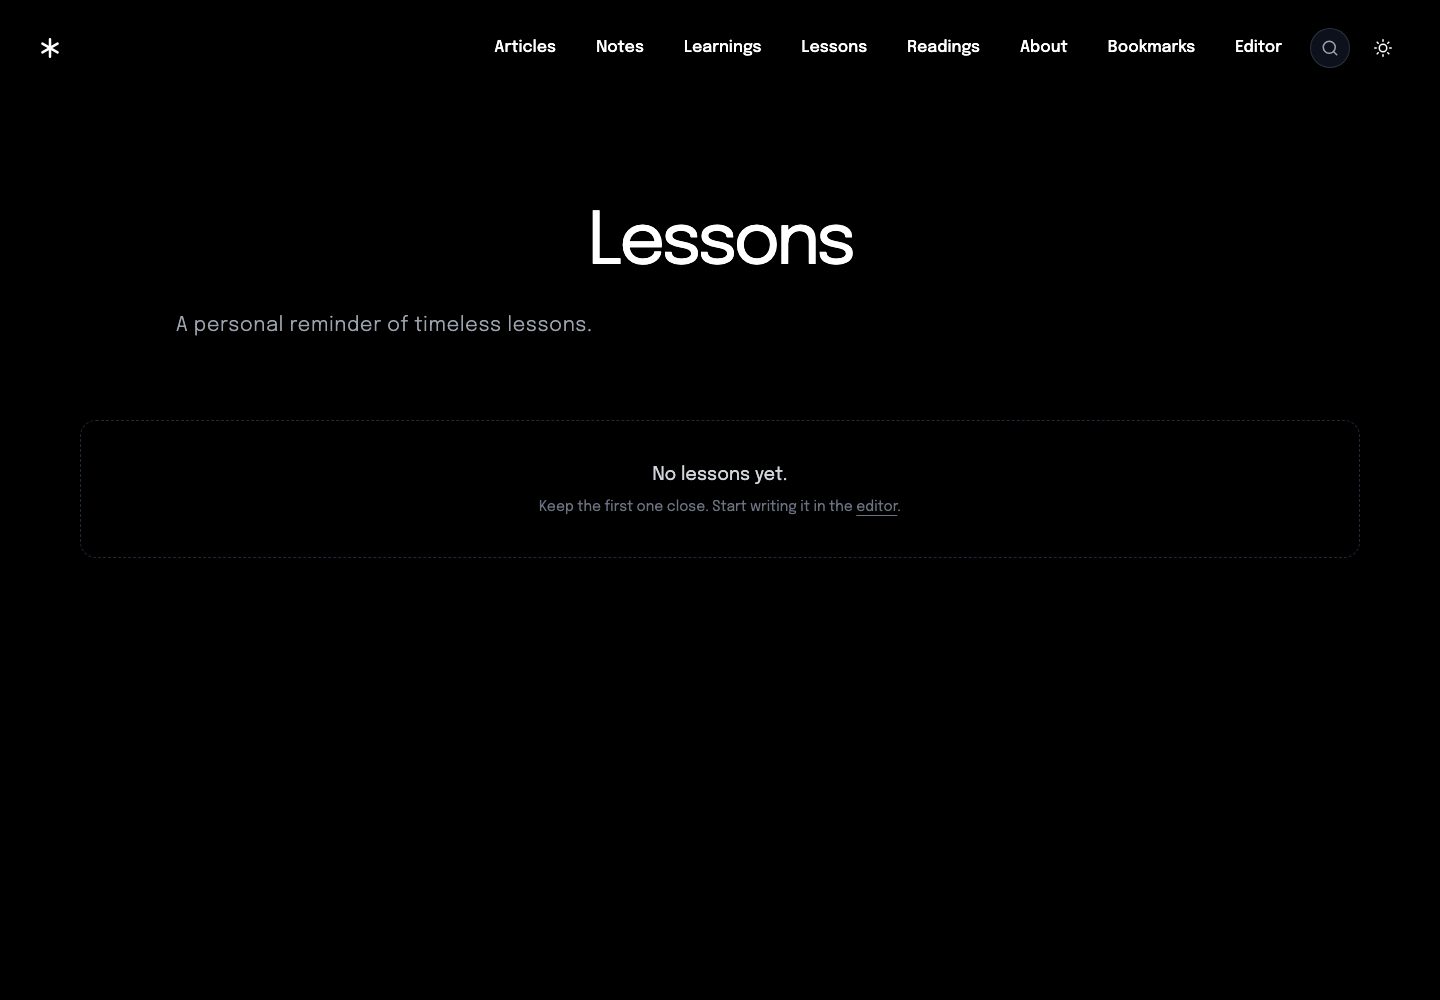
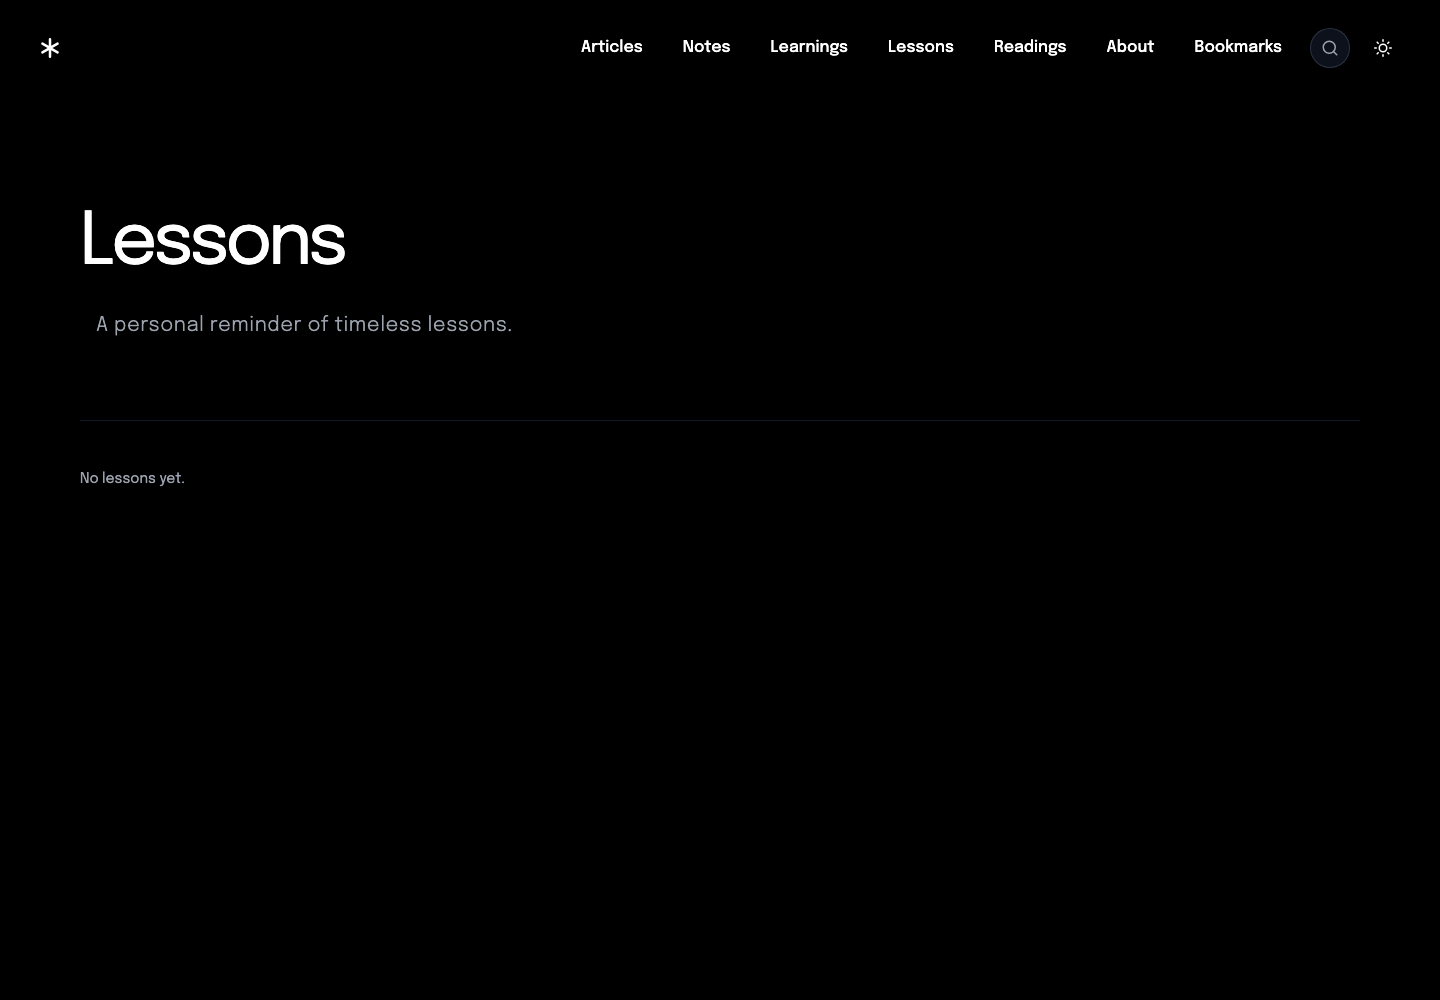
style: align private editor navigation

diff --git a/src/app/lessons/page.tsx b/src/app/lessons/page.tsx
@@ -1,4 +1,3 @@
-import Link from 'next/link';
 import { readFile } from 'fs/promises';
 import { join } from 'path';
 import ReactMarkdown from 'react-markdown';
@@ -54,7 +53,7 @@ export default async function LessonsPage() {
       <Navbar />
       <div className="flex flex-col items-center pt-32">
         <SectionContainer>
-          <div className="w-full py-20">
+          <div className="w-full py-20 text-left">
             <AnimatedTitle>
               <h1 className="mb-8 text-5xl leading-relaxed tracking-[-0.06em] sm:text-7xl">Lessons</h1>
             </AnimatedTitle>
@@ -63,35 +62,38 @@ export default async function LessonsPage() {
             </p>
 
             {content.length > 0 ? (
-              <div className="space-y-10">
+              <div className="space-y-1">
                 {content.map(({ lesson, body }) => (
-                  <article key={lesson.id} className="border-l-2 border-gray-200 pl-5 dark:border-gray-800 sm:pl-7">
-                    <div className="mb-3 flex flex-wrap items-center gap-3 text-[11px] font-mono uppercase tracking-[0.18em] text-gray-500">
-                      <time dateTime={lesson.date}>{formatDate(lesson.date)}</time>
-                      {lesson.source ? <span>· {lesson.source}</span> : null}
-                    </div>
-                    <h2 className="mb-3 text-2xl font-medium tracking-tight text-gray-950 dark:text-gray-100">
-                      {lesson.title}
-                    </h2>
-                    <p className="mb-5 max-w-2xl leading-relaxed text-gray-600 dark:text-gray-400">{lesson.excerpt}</p>
-                    {body ? (
-                      <div className="prose prose-sm max-w-2xl dark:prose-invert">
-                        <ReactMarkdown remarkPlugins={[remarkGfm]}>{body}</ReactMarkdown>
+                  <article key={lesson.id} className="group border-b border-gray-200 py-6 dark:border-gray-900">
+                    <div className="flex flex-col gap-3 sm:flex-row sm:items-start sm:gap-8">
+                      <div className="min-w-[140px] pt-1 text-sm font-mono text-gray-500 dark:text-gray-500">
+                        <time dateTime={lesson.date}>{formatDate(lesson.date)}</time>
                       </div>
-                    ) : null}
+                      <div className="min-w-0 flex-1">
+                        {lesson.source ? (
+                          <p className="mb-2 text-[10px] uppercase tracking-[0.18em] text-gray-400 dark:text-gray-600">
+                            {lesson.source}
+                          </p>
+                        ) : null}
+                        <h2 className="mb-2 text-xl font-medium tracking-tight text-gray-900 transition-colors group-hover:text-gray-600 dark:text-gray-100 dark:group-hover:text-gray-300 sm:text-2xl">
+                          {lesson.title}
+                        </h2>
+                        <p className="mb-4 max-w-2xl text-sm leading-relaxed text-gray-600 dark:text-gray-400 sm:text-base">
+                          {lesson.excerpt}
+                        </p>
+                        {body ? (
+                          <div className="prose prose-sm max-w-2xl dark:prose-invert">
+                            <ReactMarkdown remarkPlugins={[remarkGfm]}>{body}</ReactMarkdown>
+                          </div>
+                        ) : null}
+                      </div>
+                    </div>
                   </article>
                 ))}
               </div>
             ) : (
-              <div className="rounded-2xl border border-dashed border-gray-300 px-6 py-10 text-center dark:border-gray-800">
-                <p className="text-lg text-gray-700 dark:text-gray-300">No lessons yet.</p>
-                <p className="mt-2 text-sm text-gray-500 dark:text-gray-500">
-                  Keep the first one close. Start writing it in the{' '}
-                  <Link href="/editor" className="underline underline-offset-4 transition-colors hover:text-gray-950 dark:hover:text-white">
-                    editor
-                  </Link>
-                  .
-                </p>
+              <div className="border-t border-gray-200 py-12 dark:border-gray-900">
+                <p className="text-sm text-gray-600 dark:text-gray-400">No lessons yet.</p>
               </div>
             )}
           </div>

diff --git a/src/app/readings/page.tsx b/src/app/readings/page.tsx
@@ -1,4 +1,3 @@
-import Link from 'next/link';
 import { readFile } from 'fs/promises';
 import { join } from 'path';
 import ReactMarkdown from 'react-markdown';
@@ -54,7 +53,7 @@ export default async function ReadingsPage() {
       <Navbar />
       <div className="flex flex-col items-center pt-32">
         <SectionContainer>
-          <div className="w-full py-20">
+          <div className="w-full py-20 text-left">
             <AnimatedTitle>
               <h1 className="mb-8 text-5xl leading-relaxed tracking-[-0.06em] sm:text-7xl">Readings</h1>
             </AnimatedTitle>
@@ -63,35 +62,36 @@ export default async function ReadingsPage() {
             </p>
 
             {content.length > 0 ? (
-              <div className="space-y-10">
+              <div className="space-y-1">
                 {content.map(({ reading, body }) => (
-                  <article key={reading.id} className="border-y border-gray-200 py-7 dark:border-gray-800">
-                    <div className="mb-4 flex flex-wrap items-center gap-3 text-[11px] font-mono uppercase tracking-[0.18em] text-gray-500">
-                      <time dateTime={reading.date}>{formatDate(reading.date)}</time>
-                      <span>· {reading.author}</span>
-                    </div>
-                    <h2 className="mb-3 text-2xl font-medium tracking-tight text-gray-950 dark:text-gray-100">
-                      {reading.title}
-                    </h2>
-                    <p className="mb-5 max-w-2xl leading-relaxed text-gray-600 dark:text-gray-400">{reading.excerpt}</p>
-                    {body ? (
-                      <div className="prose prose-sm max-w-2xl dark:prose-invert">
-                        <ReactMarkdown remarkPlugins={[remarkGfm]}>{body}</ReactMarkdown>
+                  <article key={reading.id} className="group border-b border-gray-200 py-6 dark:border-gray-900">
+                    <div className="flex flex-col gap-3 sm:flex-row sm:items-start sm:gap-8">
+                      <div className="min-w-[140px] pt-1 text-sm font-mono text-gray-500 dark:text-gray-500">
+                        <time dateTime={reading.date}>{formatDate(reading.date)}</time>
                       </div>
-                    ) : null}
+                      <div className="min-w-0 flex-1">
+                        <p className="mb-2 text-[10px] uppercase tracking-[0.18em] text-gray-400 dark:text-gray-600">
+                          {reading.author}
+                        </p>
+                        <h2 className="mb-2 text-xl font-medium tracking-tight text-gray-900 transition-colors group-hover:text-gray-600 dark:text-gray-100 dark:group-hover:text-gray-300 sm:text-2xl">
+                          {reading.title}
+                        </h2>
+                        <p className="mb-4 max-w-2xl text-sm leading-relaxed text-gray-600 dark:text-gray-400 sm:text-base">
+                          {reading.excerpt}
+                        </p>
+                        {body ? (
+                          <div className="prose prose-sm max-w-2xl dark:prose-invert">
+                            <ReactMarkdown remarkPlugins={[remarkGfm]}>{body}</ReactMarkdown>
+                          </div>
+                        ) : null}
+                      </div>
+                    </div>
                   </article>
                 ))}
               </div>
             ) : (
-              <div className="rounded-2xl border border-dashed border-gray-300 px-6 py-10 text-center dark:border-gray-800">
-                <p className="text-lg text-gray-700 dark:text-gray-300">No readings yet.</p>
-                <p className="mt-2 text-sm text-gray-500 dark:text-gray-500">
-                  Add the first one from the{' '}
-                  <Link href="/editor" className="underline underline-offset-4 transition-colors hover:text-gray-950 dark:hover:text-white">
-                    editor
-                  </Link>
-                  .
-                </p>
+              <div className="border-t border-gray-200 py-12 dark:border-gray-900">
+                <p className="text-sm text-gray-600 dark:text-gray-400">No readings yet.</p>
               </div>
             )}
           </div>

diff --git a/src/components/Navbar.tsx b/src/components/Navbar.tsx
@@ -36,10 +36,28 @@ function Navbar() {
   const { theme, toggleTheme } = useTheme();
   const [isScrolled, setIsScrolled] = useState(false);
   const [isMobileMenuOpen, setIsMobileMenuOpen] = useState(false);
+  const [isAdmin, setIsAdmin] = useState(false);
 
   const links = useMemo(() => {
-    return isMobileMenuOpen ? NAV_LINKS_MOBILE : NAV_LINKS;
-  }, [isMobileMenuOpen]);
+    const availableLinks = isMobileMenuOpen ? NAV_LINKS_MOBILE : NAV_LINKS;
+    return isAdmin ? availableLinks : availableLinks.filter((link) => link.href !== '/editor');
+  }, [isAdmin, isMobileMenuOpen]);
+
+  useEffect(() => {
+    let alive = true;
+    fetch('/api/auth/session', { credentials: 'same-origin', cache: 'no-store' })
+      .then((response) => (response.ok ? response.json() : null))
+      .then((data: { authenticated?: boolean } | null) => {
+        if (alive) setIsAdmin(data?.authenticated === true);
+      })
+      .catch(() => {
+        if (alive) setIsAdmin(false);
+      });
+
+    return () => {
+      alive = false;
+    };
+  }, []);
 
   useEffect(() => {
     const handleScroll = () => {
@@ -135,9 +153,14 @@ function Navbar() {
               key={link.href}
               href={link.href}
               className={cn(
-                'h-full flex justify-center align-center flex-col px-3 transition-colors cursor-pointer text-sm sm:text-base font-medium',
+                'flex justify-center align-center px-3 transition-colors cursor-pointer text-sm sm:text-base font-medium',
+                link.href === '/editor'
+                  ? 'h-10 rounded-full border border-gray-300 dark:border-gray-700'
+                  : 'h-full flex-col',
                 'dark:text-white text-gray-900',
-                'dark:hover:text-gray-400 hover:text-gray-600'
+                link.href === '/editor'
+                  ? 'dark:hover:border-gray-500 hover:border-gray-500'
+                  : 'dark:hover:text-gray-400 hover:text-gray-600'
               )}
             >
               {link.label}
@@ -215,7 +238,7 @@ function Navbar() {
                 <FiX size={24} />
               </button>
               <nav className="flex-1 flex flex-col justify-center">
-                {NAV_LINKS.map((link, index) => (
+                {links.map((link, index) => (
                   <motion.div
                     key={link.href}
                     initial={{ opacity: 0, y: 24 }}

diff --git a/src/app/api/auth/session/route.ts b/src/app/api/auth/session/route.ts
@@ -1,0 +1,20 @@
+import { NextRequest, NextResponse } from 'next/server';
+import {
+  getAdminSessionFromRequest,
+  isAdminOAuthConfigured,
+} from '@/lib/controlPlaneAuth';
+
+export const dynamic = 'force-dynamic';
+export const runtime = 'nodejs';
+
+export function GET(req: NextRequest) {
+  const authenticated = isAdminOAuthConfigured() && Boolean(getAdminSessionFromRequest(req));
+  return NextResponse.json(
+    { authenticated },
+    {
+      headers: {
+        'Cache-Control': 'private, no-store',
+      },
+    }
+  );
+}
